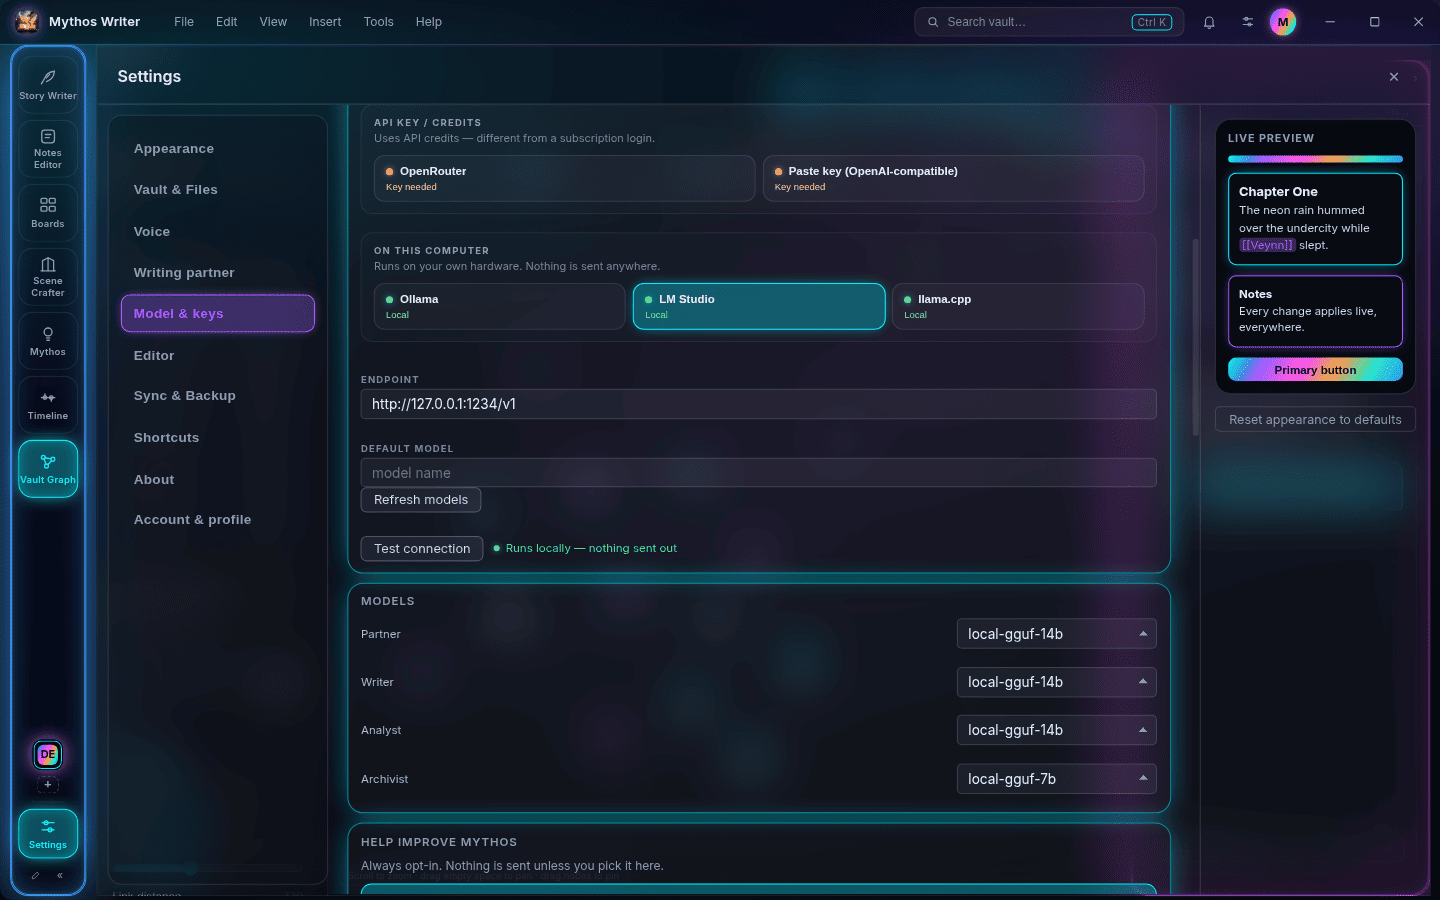
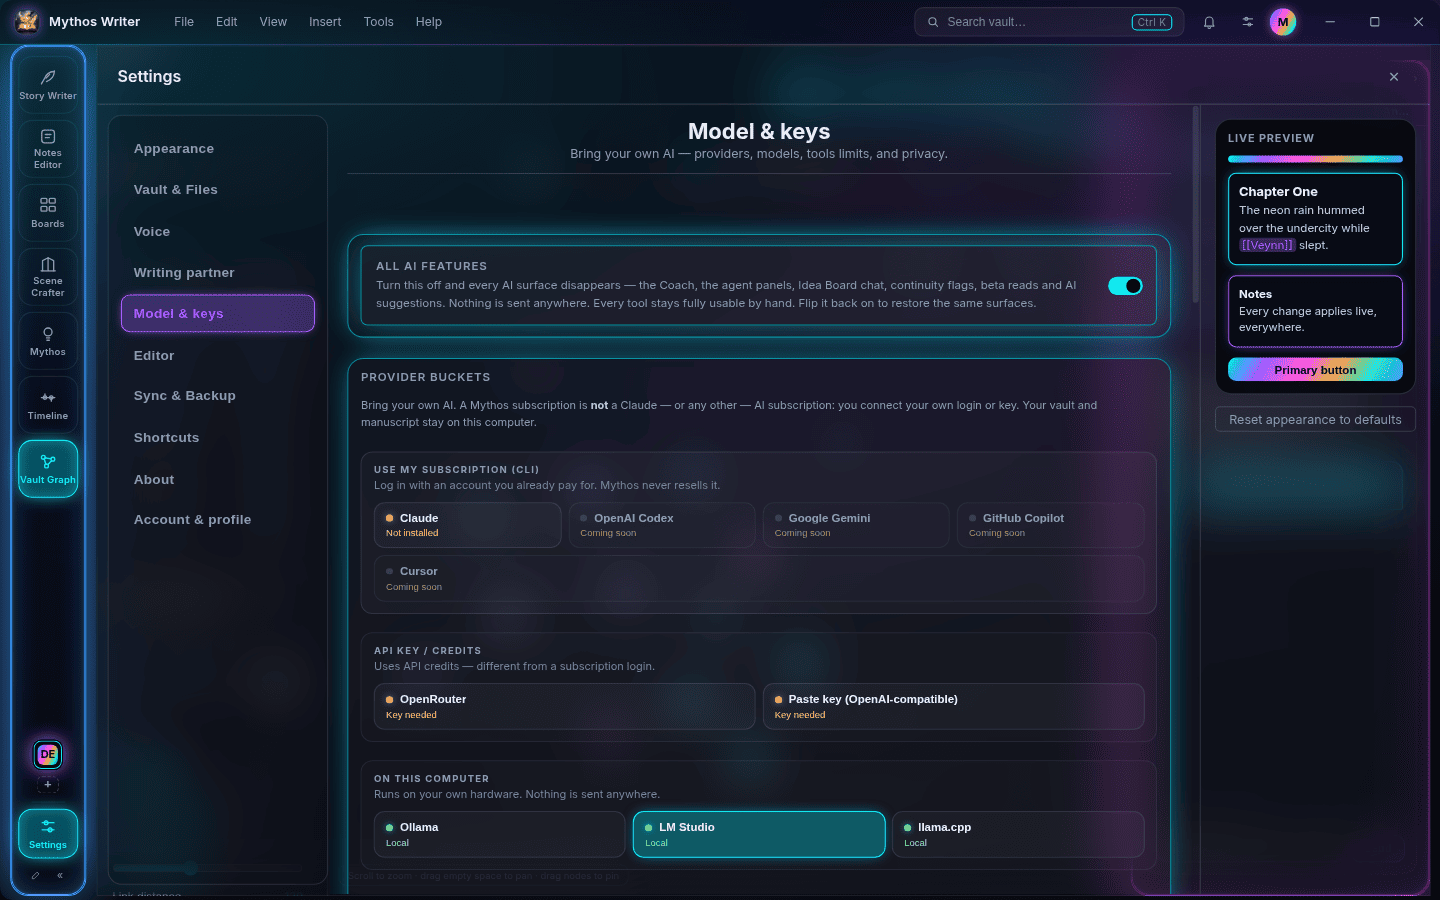
docs: name all three Model & keys groups
The README section, table, and settings caption now match the three
buckets. Claude is the beta path. OpenAI Codex, Google Gemini, GitHub
Copilot, and Cursor are Coming soon and not available yet. The settings
shot shows those groups without the Ollama warning or the Notes toast.
The capture passes --disable-dev-shm-usage with --no-sandbox.

diff --git a/e2e/readme-screenshots.spec.ts b/e2e/readme-screenshots.spec.ts
@@ -197,7 +197,7 @@ function writeProfile(userData: string, seed: SeedResult | null): void {
 async function launch(userData: string): Promise<ElectronApplication> {
   const extraArgs = (process.platform !== 'darwin' && !process.env.DISPLAY) ? ['--headless'] : [];
   return electron.launch({
-    args: [MAIN_JS, `--user-data-dir=${userData}`, '--no-sandbox', ...extraArgs],
+    args: [MAIN_JS, `--user-data-dir=${userData}`, '--no-sandbox', '--disable-dev-shm-usage', ...extraArgs],
     env: strippedEnv(),
     timeout: 60_000,
   });
@@ -345,11 +345,19 @@ test('screenshot: demo window', async () => {
     await settleNotesToast(page);
     const frame = await page.evaluate(() => {
       const body = document.querySelector('.settings-body');
-      const api = document.querySelector('[data-testid="mk-bucket-api"]');
-      if (!body || !api) return { ok: false as const, reason: 'missing settings scroller' };
+      const cli = document.querySelector('[data-testid="mk-bucket-cli"]');
+      const local = document.querySelector('[data-testid="mk-bucket-local"]');
+      if (!body || !cli || !local) return { ok: false as const, reason: 'missing settings scroller' };
       const bodyRect = () => body.getBoundingClientRect();
-      // Subscription bucket stays above the fold.
-      body.scrollTop += api.getBoundingClientRect().top - bodyRect().top;
+      // All three groups stay in the scroller. Scroll only far enough to
+      // bring the local tiles in, and never far enough to push the
+      // subscription group out.
+      body.scrollTop = 0;
+      const overflow = local.getBoundingClientRect().bottom - (bodyRect().bottom - 4);
+      if (overflow > 0) {
+        const cliRoom = cli.getBoundingClientRect().top - (bodyRect().top + 4);
+        body.scrollTop += Math.min(overflow, Math.max(0, cliRoom));
+      }
       const c = body.getBoundingClientRect();
       const shown = (sel: string) => {
         const el = document.querySelector(sel);
@@ -371,12 +379,19 @@ test('screenshot: demo window', async () => {
       };
       return {
         ok: true as const,
+        claude: shown('[data-testid="mk-prov-claude"]'),
+        codex: shown('[data-testid="mk-prov-openai-codex"]'),
+        gemini: shown('[data-testid="mk-prov-gemini"]'),
+        copilot: shown('[data-testid="mk-prov-copilot"]'),
+        cursor: shown('[data-testid="mk-prov-cursor"]'),
         openRouter: shown('[data-testid="mk-prov-openrouter"]'),
         pasteKey: shown('[data-testid="mk-prov-paste-key"]'),
         ollama: shown('[data-testid="mk-prov-ollama"]'),
         lmstudio: shown('[data-testid="mk-prov-lmstudio"]'),
         llamacpp: shown('[data-testid="mk-prov-llamacpp"]'),
         cli: shown('[data-testid="mk-bucket-cli"]'),
+        apiGroup: textShown('API KEY / CREDITS'),
+        localGroup: textShown('ON THIS COMPUTER'),
         key: shown('[data-testid="mk-api-key"]'),
         claudeRow: shown('[data-testid="mk-claude-row"]'),
         subscription: textShown('USE MY SUBSCRIPTION'),
@@ -386,16 +401,23 @@ test('screenshot: demo window', async () => {
     });
     expect(frame, JSON.stringify(frame)).toMatchObject({
       ok: true,
+      claude: true,
+      codex: true,
+      gemini: true,
+      copilot: true,
+      cursor: true,
       openRouter: true,
       pasteKey: true,
       ollama: true,
       lmstudio: true,
       llamacpp: true,
-      cli: false,
+      cli: true,
+      apiGroup: true,
+      localGroup: true,
       key: false,
       claudeRow: false,
-      subscription: false,
-      comingSoon: false,
+      subscription: true,
+      comingSoon: true,
       ollamaDown: false,
     });
     await saveShot(page, 'settings-model-keys');

diff --git a/README.md b/README.md
@@ -4,7 +4,7 @@ Mythos Writer is a desktop app for fiction. Your manuscript and your notes are p
 
 Windows is the primary platform. Mac and Linux: TBD.
 
-AI is optional. You bring your own [OpenRouter](https://openrouter.ai/) key, paste an OpenAI-compatible key, or you run a model on this computer with **Ollama**, **LM Studio**, or **llama.cpp**. Mythos suggests. You write the manuscript. Scene Crafter can turn a scene setup into a draft card on a board; that card stays on the board.
+AI is optional. **Settings → Model & keys** has three groups. **USE MY SUBSCRIPTION (CLI)** is Claude (beta); OpenAI Codex, Google Gemini, GitHub Copilot, and Cursor are marked Coming soon and are not available yet. **API KEY / CREDITS** is your own [OpenRouter](https://openrouter.ai/) key, or **Paste key (OpenAI-compatible)**. **ON THIS COMPUTER** is **Ollama**, **LM Studio**, or **llama.cpp**. Mythos suggests. You write the manuscript. Scene Crafter can turn a scene setup into a draft card on a board; that card stays on the board.
 
 ## Screenshots
 
@@ -40,7 +40,7 @@ These are the full app window at 1440×900. The project is the demo story **The 
 
 ### Model & keys
 
-![Settings → Model & keys — OpenRouter, Paste key, Ollama, LM Studio, and llama.cpp](docs/screenshots/readme/settings-model-keys.png)
+![Settings → Model & keys — USE MY SUBSCRIPTION (CLI): Claude (beta), and OpenAI Codex, Google Gemini, GitHub Copilot, and Cursor marked Coming soon (not available yet); API KEY / CREDITS: OpenRouter and Paste key (OpenAI-compatible); ON THIS COMPUTER: Ollama, LM Studio, and llama.cpp](docs/screenshots/readme/settings-model-keys.png)
 
 ## Install
 
@@ -85,15 +85,20 @@ Type `[[` in a note or a scene to link another note. New notes can start from a 
 
 ## AI
 
-Open **Settings → Model & keys**.
+Open **Settings → Model & keys**. The page is the same three groups as the screenshot.
 
-| Choice | What you provide |
-| --- | --- |
-| OpenRouter | Your OpenRouter key. The endpoint box starts empty. Type `https://openrouter.ai/api/v1` |
-| Paste key | An OpenAI-compatible key. The tile is **Paste key (OpenAI-compatible)** |
-| Ollama | A local server. The default address is `http://127.0.0.1:11434/v1` |
-| LM Studio | A local server. The default address is `http://127.0.0.1:1234/v1` |
-| llama.cpp | A local server (`llama-server`). The default address is `http://127.0.0.1:8080/v1` |
+| Group | Choice | What it is |
+| --- | --- | --- |
+| USE MY SUBSCRIPTION (CLI) | Claude | The beta path. The tile is **Claude**. It is not marked Coming soon. |
+| USE MY SUBSCRIPTION (CLI) | OpenAI Codex | Coming soon. Not available yet. |
+| USE MY SUBSCRIPTION (CLI) | Google Gemini | Coming soon. Not available yet. |
+| USE MY SUBSCRIPTION (CLI) | GitHub Copilot | Coming soon. Not available yet. |
+| USE MY SUBSCRIPTION (CLI) | Cursor | Coming soon. Not available yet. |
+| API KEY / CREDITS | OpenRouter | Your OpenRouter key. The endpoint box starts empty. Type `https://openrouter.ai/api/v1` |
+| API KEY / CREDITS | Paste key (OpenAI-compatible) | An OpenAI-compatible key |
+| ON THIS COMPUTER | Ollama | A local server. The default address is `http://127.0.0.1:11434/v1` |
+| ON THIS COMPUTER | LM Studio | A local server. The default address is `http://127.0.0.1:1234/v1` |
+| ON THIS COMPUTER | llama.cpp | A local server (`llama-server`). The default address is `http://127.0.0.1:8080/v1` |
 
 The key is stored on this computer. A remote endpoint receives the text you send it. Ollama, LM Studio, and llama.cpp run on this computer.
 

diff --git a/CHANGELOG.md b/CHANGELOG.md
@@ -20,7 +20,7 @@ _No git tag and no GitHub release for 0.5.8. The version on main is still 0.5.7 
 - Markdown import and paste no longer risk freezing the app on very large or malformed text (markdown-it security update 14.2.0 → 14.3.3). ([#1743](https://github.com/SkyyPlayz/Mythos-Writer/pull/1743))
 
 ### Changed
-- **README matches the current app.** Windows is the primary platform. AI is your own OpenRouter key, a pasted OpenAI-compatible key, or a model on this computer (Ollama, LM Studio, or llama.cpp). The screenshots are the current Liquid Neon window. ([#1759](https://github.com/SkyyPlayz/Mythos-Writer/pull/1759))
+- **README matches the current app.** Windows is the primary platform. Model & keys has three groups: USE MY SUBSCRIPTION (CLI) (Claude is the beta path; OpenAI Codex, Google Gemini, GitHub Copilot, and Cursor are Coming soon and not available yet), API KEY / CREDITS (OpenRouter or Paste key), and ON THIS COMPUTER (Ollama, LM Studio, or llama.cpp). The screenshots are the current Liquid Neon window. ([#1759](https://github.com/SkyyPlayz/Mythos-Writer/pull/1759))
 - **OpenRouter requests never use Google** — chat, speech, and transcription calls to OpenRouter ignore Google Vertex and Google AI Studio, keep zero-data-retention and data-collection deny, and will not select a google/* model. ([#1741](https://github.com/SkyyPlayz/Mythos-Writer/pull/1741))
 - AI suggestions can no longer write into your manuscript files. Auto-mark no longer edits notes: suggestions for your notes now wait in the inbox until you accept them, and suggestions for your manuscript are just marked done. ([#1742](https://github.com/SkyyPlayz/Mythos-Writer/pull/1742))
 - Continuity fixes now show how to fix the issue, with no Apply Edit button; manuscript suggestions are marked done instead of accepted; the Add to scene draft menu item and drawer button are gone. ([#1740](https://github.com/SkyyPlayz/Mythos-Writer/pull/1740))
